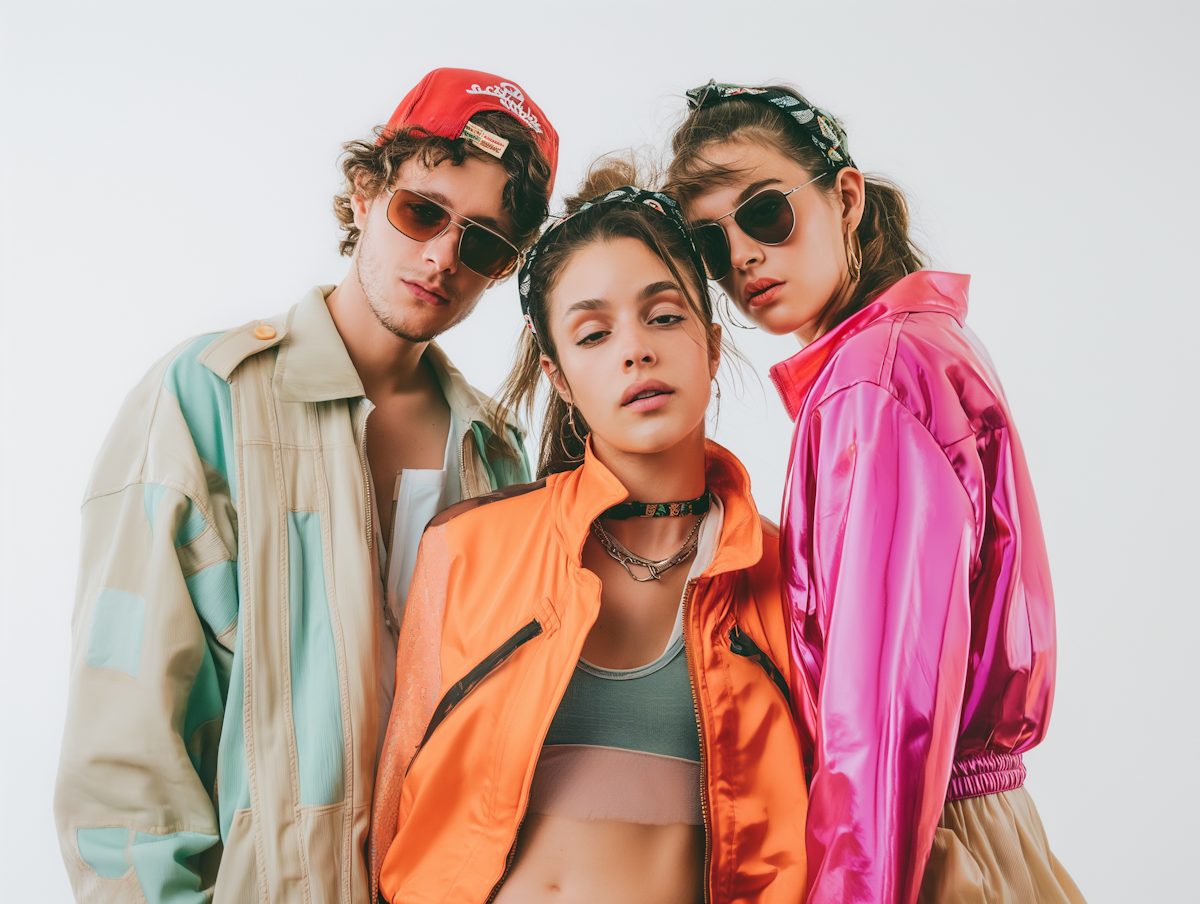
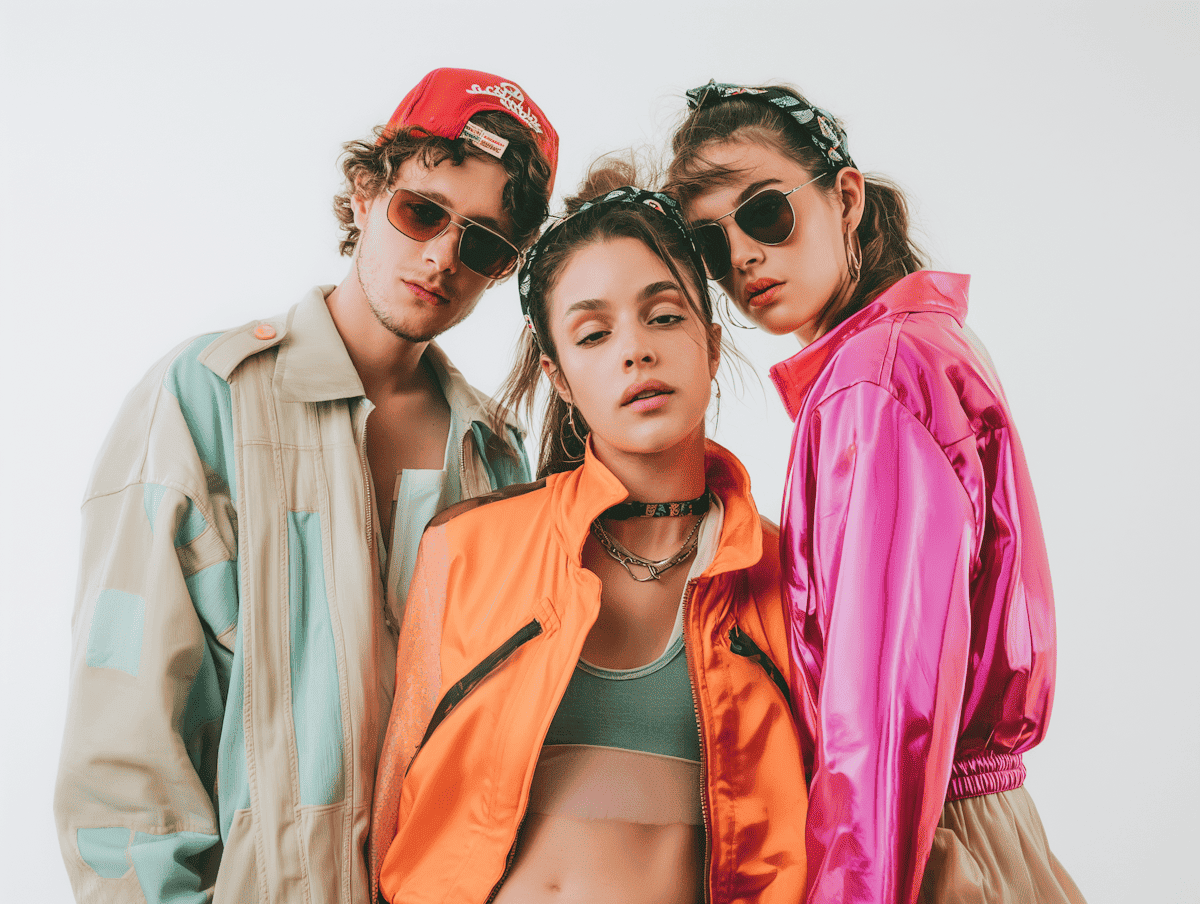
refactor: optimized images by compressing file sizes to 100 to 400KB for better performance

diff --git a/app/choose-username/page.tsx b/app/choose-username/page.tsx
@@ -823,7 +823,7 @@ export default function ChooseUsernamePage() {
 
   if (isLoadingProfile) {
     return (
-      <div className="flex min-h-screen items-center justify-center bg-gradient-to-br from-slate-900 via-purple-950 to-blue-950 dark:bg-gray-900 px-4 pt-4 pb-16">
+      <div className="flex min-h-screen items-center justify-center bg-[#000825] dark:bg-gray-900 px-4 pt-4 pb-16">
         <div className="w-full max-w-md text-center">
           <Loader2 className="h-12 w-12 mx-auto animate-spin text-slate-400 mb-4" />
           <p className="text-slate-300 text-lg">Loading your profile...</p>

diff --git a/app/creators/CreatorsClient.tsx b/app/creators/CreatorsClient.tsx
@@ -114,9 +114,9 @@ const creatorsteps = [
 ];
 
 const images: string[] = [
-  "./images/Rectangle 2724.png",
-  "./images/Property 1=Rectangle 2725.png",
-  "./images/Property 1=Rectangle 2726.png",
+  "./images/ce93873a8bcf3c08e216b5793f968f3722178789.png",
+  "./images/844d84fa7fc8646e15494703ec37e2d880bb59e5.png",
+  "./images/fb3e50b77241ebb8e7cd1813fae1eecbe92b7432.png",
 ];
 export default function CreatorsClient() {
   const [currentIndex, setCurrentIndex] = useState<number>(0);

diff --git a/app/brands/BrandsClient.tsx b/app/brands/BrandsClient.tsx
@@ -78,7 +78,7 @@ const Brandsteps = [
 ];
 const images: string[] = [
   "./images/f51c4c5af9b9b5ab2e591a2decd387ff602702a8.png",
-  "./images/Property 1=Rectangle 2725 (1).png",
+  "./images/Property 1=Rectangle 2725.png",
   "./images/f96e2b44b8e51e5813eb9cc1fa2600d8249d865b.png",
 ];
 export default function BrandsClient() {
